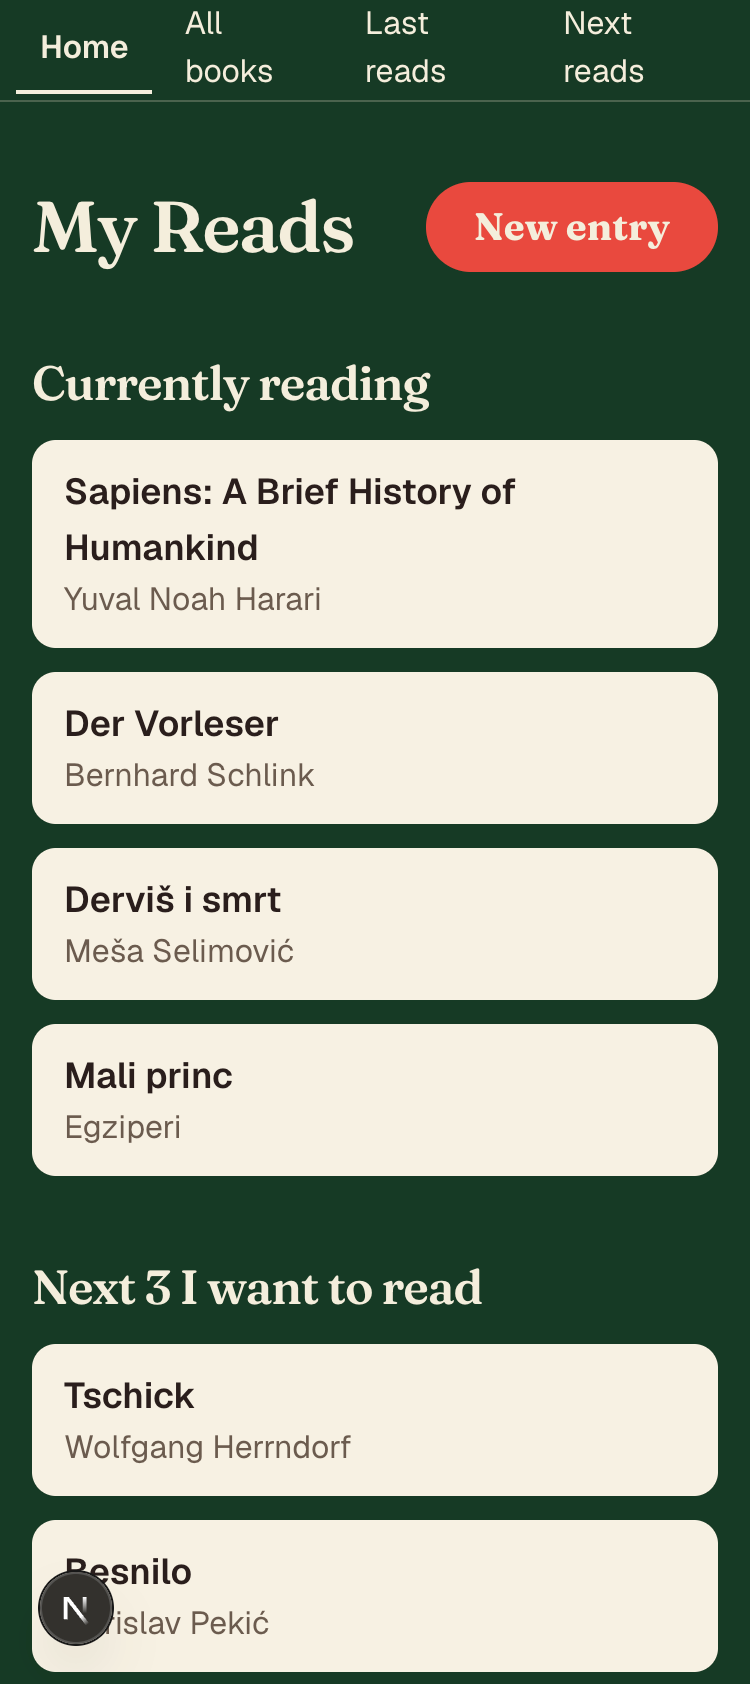
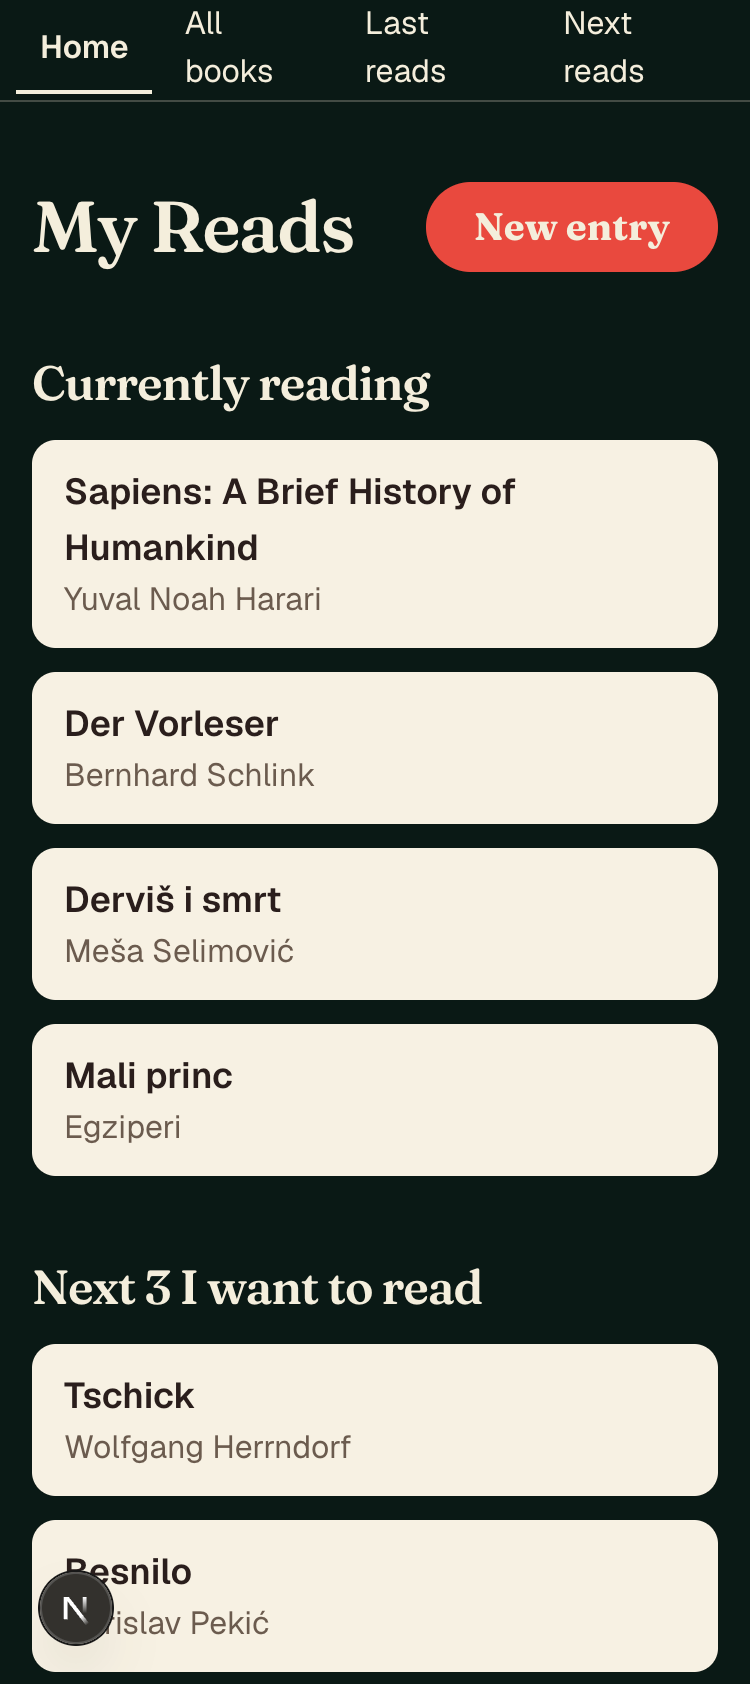
Add friendly not-found page, update README and verification list

diff --git a/app/not-found.tsx b/app/not-found.tsx
@@ -1,0 +1,19 @@
+import Link from "next/link";
+
+// Shown for any address that doesn't exist.
+export default function NotFound() {
+  return (
+    <main className="mx-auto w-full max-w-xl flex-1 px-4 py-10 sm:px-6 sm:py-16">
+      <div className="empty-state p-6 text-center">
+        <h1 className="heading text-3xl">Page not found</h1>
+        <p className="mt-2">
+          We couldn&apos;t find that page. The address may be wrong, or the page
+          may have moved.
+        </p>
+        <Link href="/" className="btn mt-4">
+          Back to home
+        </Link>
+      </div>
+    </main>
+  );
+}

diff --git a/README.md b/README.md
@@ -5,12 +5,12 @@ A small reading list that runs in your browser. Add books, note where each one c
 <table>
   <tr>
     <td align="center" valign="top">
-      <img src="docs/screenshot-desktop.png" alt="My Reads on desktop" width="600"><br>
-      <sub>Desktop</sub>
+      <img src="docs/screenshot-desktop.png" alt="My Reads on desktop, light mode" width="600"><br>
+      <sub>Desktop, light mode</sub>
     </td>
     <td align="center" valign="top">
-      <img src="docs/screenshot-mobile.png" alt="My Reads on a phone" width="220"><br>
-      <sub>Phone</sub>
+      <img src="docs/screenshot-mobile.png" alt="My Reads on a phone, dark mode" width="220"><br>
+      <sub>Phone, dark mode</sub>
     </td>
   </tr>
 </table>
@@ -19,10 +19,19 @@ A small reading list that runs in your browser. Add books, note where each one c
 
 | Address | What it does |
 | --- | --- |
-| `/` | Home: "New entry" button, the last 3 books read, and the next 3 books to read |
+| `/` | Home: "New entry" button, Currently reading (all Reading books), the next 3 to read and the last 3 read, each with a "See all" link |
 | `/books` | All books, each linking to its own page |
+| `/books/read` | All books with status Read, newest first |
+| `/books/next` | All books with status Want to read, newest first |
 | `/books/new` | Add a book (title is required) |
 | `/books/[id]` | View, edit or delete one book. Unknown ids show a "book not found" message |
+| any other address | A friendly "Page not found" page with a link back home |
+
+A header on every page links to Home, All books, Last reads and Next reads.
+
+## Design
+
+A deep green page with a reading-corner picture pinned to the bottom, cream book cards, coral buttons, Fraunces headings and Geist text. It follows your computer's light or dark setting: dark mode uses a darker green and a night version of the picture. The choices are in [`docs/brand-guide.md`](docs/brand-guide.md).
 
 ## Run it locally
 
@@ -46,6 +55,8 @@ No backend, no accounts and no extra packages.
 ## Where data is saved
 
 Books are saved in your browser's `localStorage`, as one JSON array under the key `my-reads:books`. The data stays on your machine, in the browser you used, so another browser or a private window will show an empty list. Clearing site data removes the books. The reasons for choosing `localStorage` over IndexedDB, cookies and the File System Access API are in [`docs/storage-decision.md`](docs/storage-decision.md). The book fields are in [`docs/data-model.md`](docs/data-model.md).
+
+Each book also records `statusChangedAt`, the moment it was added or its status last changed. Lists are sorted newest first by that date, so a book you just marked Read appears at the top of the Read lists.
 
 ## Project notes
 

diff --git a/PLAN.md b/PLAN.md
@@ -136,4 +136,5 @@ A second reader (needs accounts and a backend).
 6. Resize to 1280 px and 375 px (browser dev tools): layout works and text is readable.
 7. Open `/books/read` and `/books/next` and check they list the right books.
 8. Switch the computer to dark mode and check every page.
-9. `npm run lint` and `npm run build` both pass.
+9. Open `/hello`: friendly not-found page.
+10. `npm run lint` and `npm run build` both pass.
